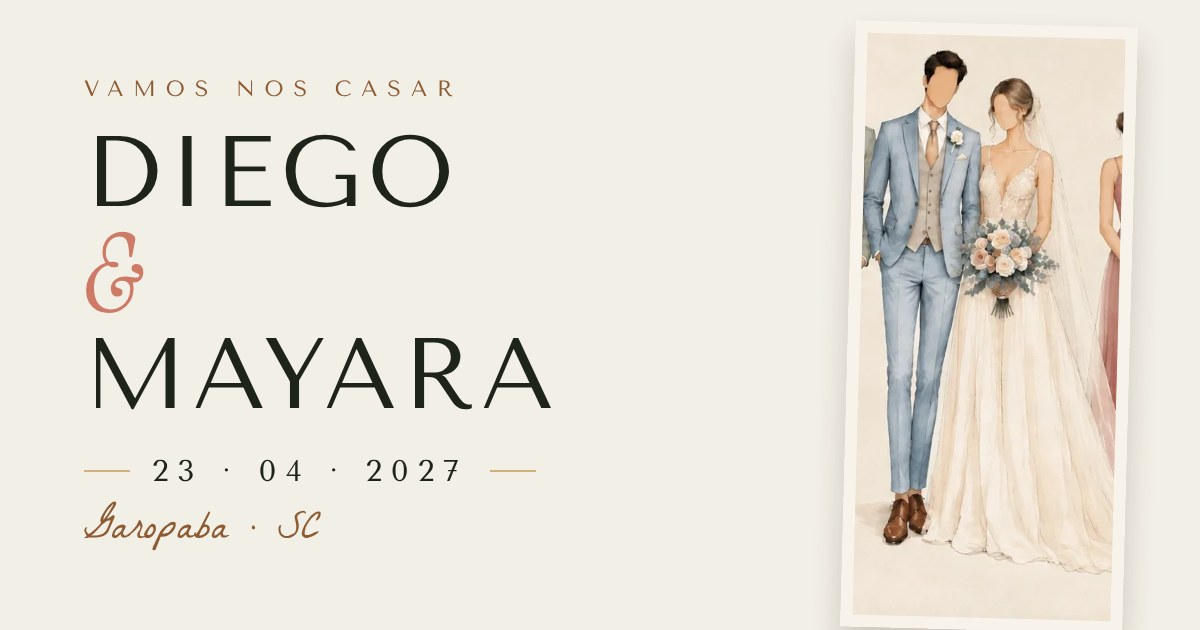
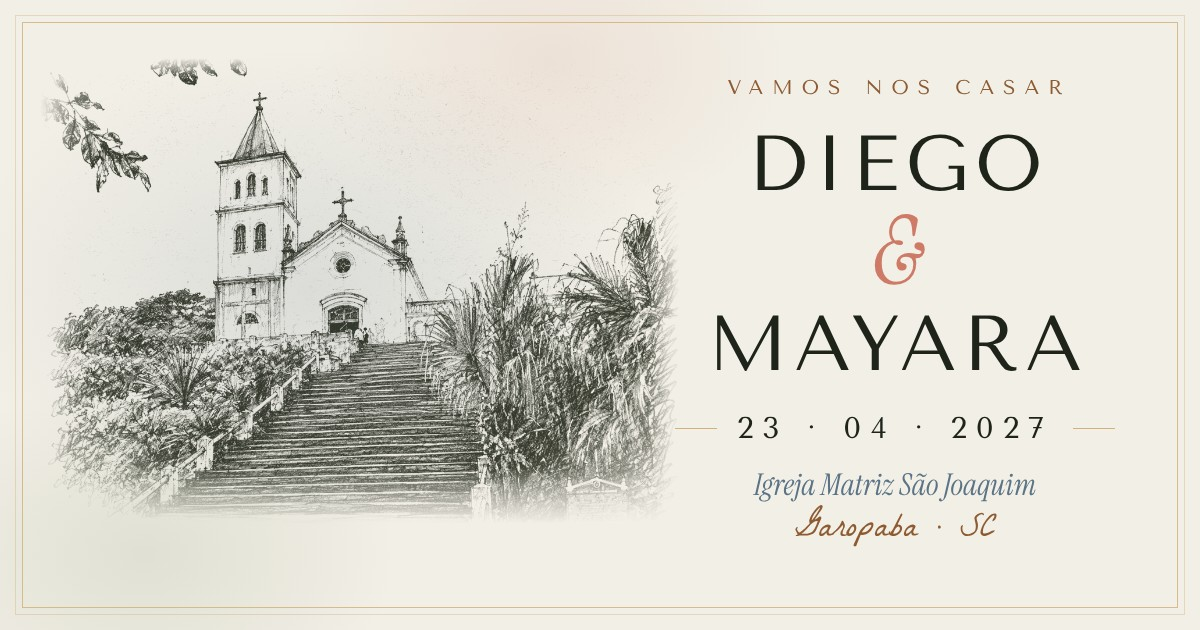
Miniatura do WhatsApp com o desenho da igrejinha, nomes, data e igreja
Claude-Session: https://claude.ai/code/session_01MjBZuEXkYrMwf9P5BCvSAk

diff --git a/site/index.html b/site/index.html
@@ -1,5 +1,5 @@
 <!doctype html>
-<html lang="pt-BR"><head><meta charset="utf-8"><meta name="viewport" content="width=device-width,initial-scale=1,viewport-fit=cover"><link rel="preload" href="media/header-poster.jpg" as="image"><meta name="description" content="Diego & Mayara · 23.04.2027 · Garopaba, SC"><meta property="og:title" content="Diego & Mayara · Vamos nos casar 💍"><meta property="og:description" content="23 · 04 · 2027 · Garopaba, SC. Tudo sobre o nosso dia, com muito carinho."><meta property="og:image" content="https://diegoemayara.netlify.app/og.jpg"><meta property="og:image:width" content="1200"><meta property="og:image:height" content="630"><meta property="og:url" content="https://diegoemayara.netlify.app/"><meta name="twitter:card" content="summary_large_image"><meta property="og:type" content="website"><meta property="og:locale" content="pt_BR"><meta name="theme-color" content="#F2EFE6"><link rel="icon" href="favicon.ico" sizes="any"><link rel="icon" type="image/png" sizes="32x32" href="favicon-32.png"><link rel="icon" type="image/png" sizes="192x192" href="media/icon-192.png"><link rel="apple-touch-icon" href="apple-touch-icon.png">
+<html lang="pt-BR"><head><meta charset="utf-8"><meta name="viewport" content="width=device-width,initial-scale=1,viewport-fit=cover"><link rel="preload" href="media/header-poster.jpg" as="image"><meta name="description" content="Diego & Mayara · 23.04.2027 · Garopaba, SC"><meta property="og:title" content="Diego & Mayara · Vamos nos casar 💍"><meta property="og:description" content="23 · 04 · 2027 · Garopaba, SC. Tudo sobre o nosso dia, com muito carinho."><meta property="og:image" content="https://diegoemayara.netlify.app/og.jpg?v=2"><meta property="og:image:width" content="1200"><meta property="og:image:height" content="630"><meta property="og:url" content="https://diegoemayara.netlify.app/"><meta name="twitter:card" content="summary_large_image"><meta property="og:type" content="website"><meta property="og:locale" content="pt_BR"><meta name="theme-color" content="#F2EFE6"><link rel="icon" href="favicon.ico" sizes="any"><link rel="icon" type="image/png" sizes="32x32" href="favicon-32.png"><link rel="icon" type="image/png" sizes="192x192" href="media/icon-192.png"><link rel="apple-touch-icon" href="apple-touch-icon.png">
 <title>Diego e Mayara</title>
 <link rel="preconnect" href="https://fonts.googleapis.com">
 <link rel="preconnect" href="https://fonts.gstatic.com" crossorigin>
